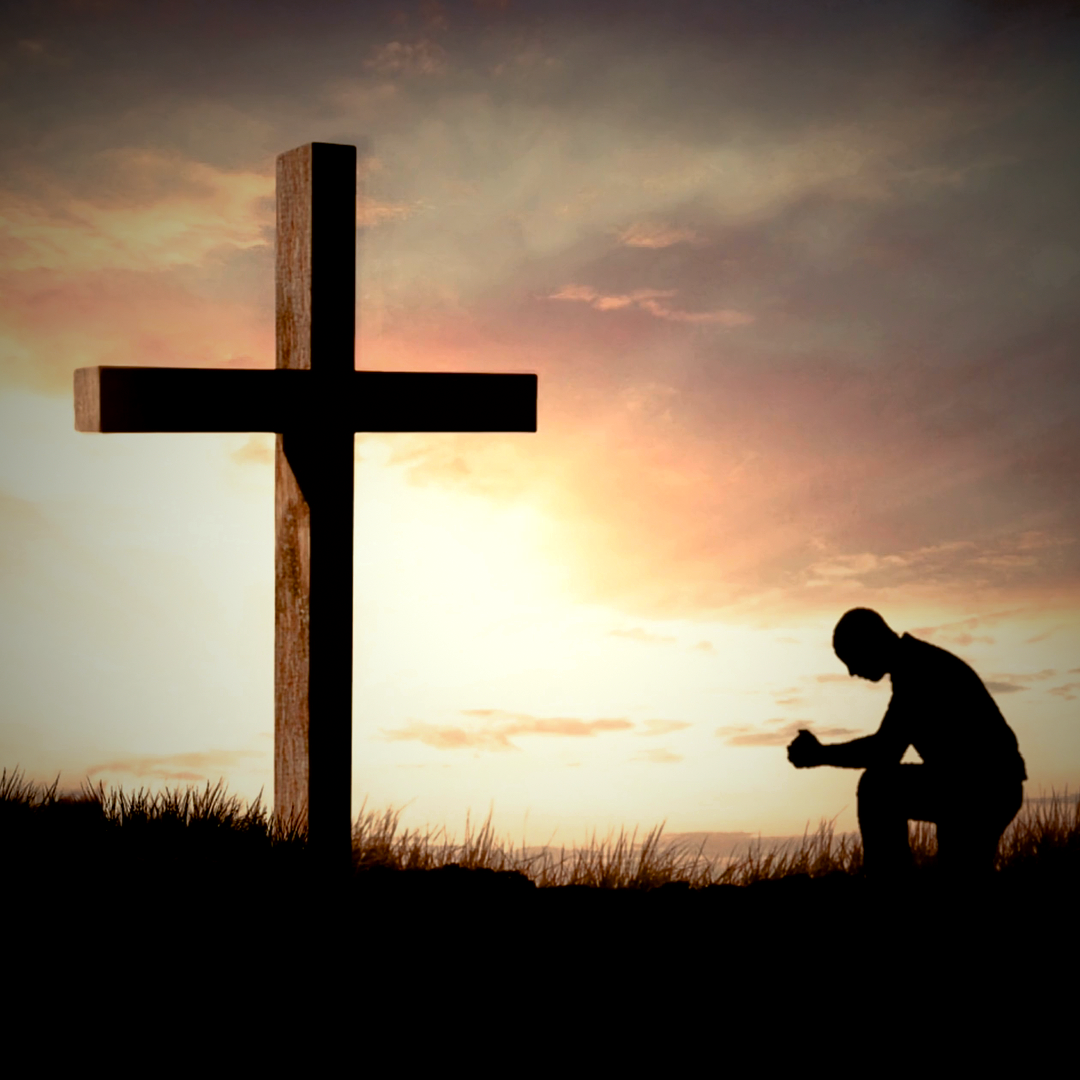
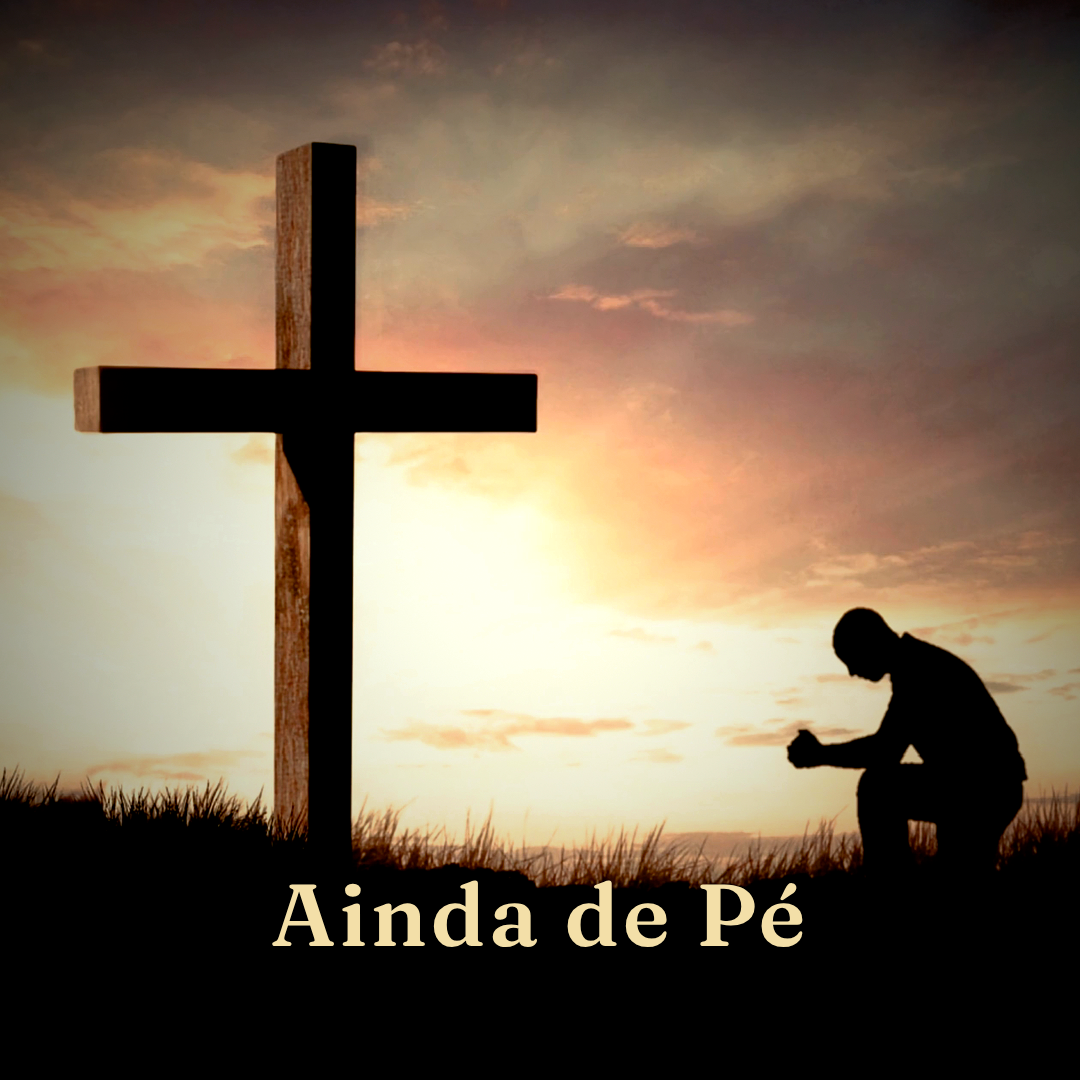
Foto de perfil com o nome Ainda de Pé
Claude-Session: https://claude.ai/code/session_01RQ8SWNy9BnEUDaH4HkHbNt

Changed region(s): [[0.2444, 0.7944, 0.4889, 0.8861], [0.6417, 0.7944, 0.7639, 0.8861], [0.5194, 0.7944, 0.6111, 0.8861]]

diff --git a/producao/arte/perfil-opcoes/com-nome.html b/producao/arte/perfil-opcoes/com-nome.html
@@ -1,0 +1,8 @@
+<!doctype html><html><head><meta charset="utf-8"><style>
+@font-face { font-family: F; font-weight: 600; src: url("../../fontes/fraunces-latin-600.woff2"); }
+@font-face { font-family: F; font-weight: 600; src: url("../../fontes/fraunces-latin-ext-600.woff2"); unicode-range: U+0100-024F; }
+html,body{margin:0;width:1080px;height:1080px;overflow:hidden;background:#000}
+img{position:absolute;inset:0;width:1080px;height:1080px}
+#n{position:absolute;left:0;right:0;top:860px;text-align:center;font-family:F;font-weight:600;font-size:88px;
+   letter-spacing:.04em;color:#f3dfa8;text-shadow:0 2px 14px rgba(0,0,0,.8)}
+</style></head><body><img src="ajoelhado-2-dourado.png"><div id="n">Ainda de Pé</div></body></html>
